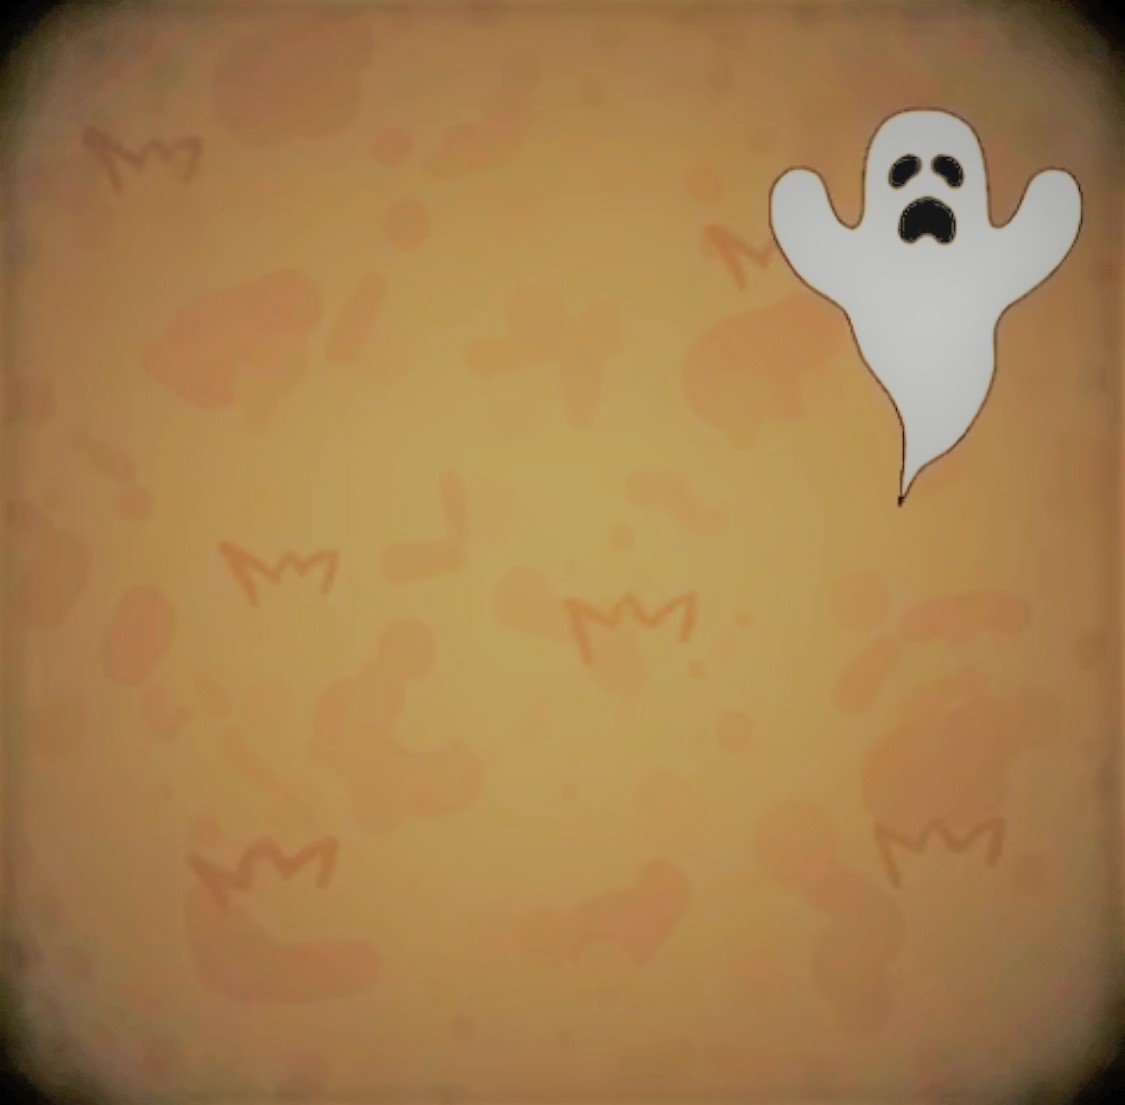
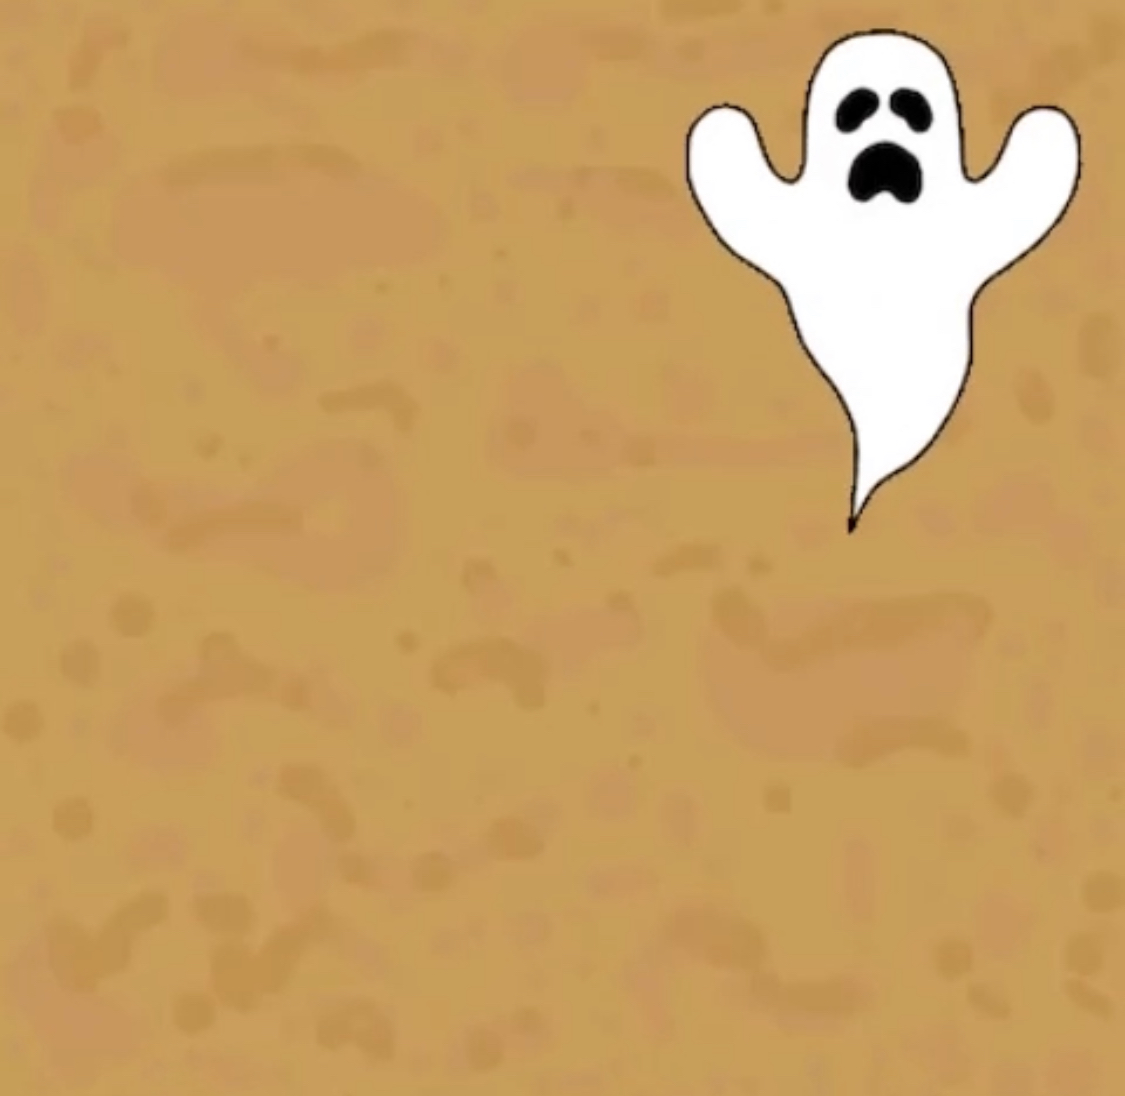
fix small bug and improve image design

diff --git a/public/script/hero.js b/public/script/hero.js
@@ -137,6 +137,24 @@ class hero{
             if(ghost_x === this.world.ghost.pos[0] && ghost_y === this.world.ghost.pos[1]){
                 this.world.ghost.killed = true; 
                 this.world.cells.cellsArray[ghost_x + ghost_y * this.world.side_number].displayed = true;
+                // update cell around ghost
+                let xpos = [-1,1,0,0];
+                let ypos = [0,0,1,-1];
+                for (let i = 0; i < xpos.length; i++){
+                    let cell_xpos = this.world.ghost.pos[0] + xpos[i];
+                    let cell_ypos = this.world.ghost.pos[1] + ypos[i];
+                    
+                    if(cell_xpos >=0 && cell_xpos < this.world.side_number && 
+                        cell_ypos >=0 && cell_ypos < this.world.side_number){
+                            
+                            if(this.world.cells.cellsArray[cell_ypos * this.world.side_number + cell_xpos].status === CELLSTATUS.GHOST){
+                                this.world.cells.cellsArray[cell_ypos * this.world.side_number + cell_xpos].status = CELLSTATUS.CLEAR;
+                            }
+                            else if(this.world.cells.cellsArray[cell_ypos * this.world.side_number + cell_xpos].status === CELLSTATUS.BOTH){
+                                this.world.cells.cellsArray[cell_ypos * this.world.side_number + cell_xpos].status = CELLSTATUS.GROUND_PIT;
+                            }
+                    }
+                }
             }
         }
     }

diff --git a/public/script/world.js b/public/script/world.js
@@ -65,10 +65,10 @@ class Wumpus_world {
 
 
     initialize_cell_status(){
-        // update cell around ghost
         let xpos = [-1,1,0,0];
         let ypos = [0,0,1,-1];
 
+        // update cell around ghost
         for (let i = 0; i < xpos.length; i++){
             let cell_xpos = this.ghost.pos[0] + xpos[i];
             let cell_ypos = this.ghost.pos[1] + ypos[i];
@@ -87,8 +87,7 @@ class Wumpus_world {
                 let cell_ypos = pit.pos[1] + ypos[i];
 
                 if(cell_xpos >=0 && cell_xpos < this.side_number && 
-                    cell_ypos >=0 && cell_ypos < this.side_number &&
-                    this.cells.cellsArray[cell_ypos * this.side_number + cell_xpos].status === CELLSTATUS.CLEAR){
+                    cell_ypos >=0 && cell_ypos < this.side_number){
                         if(this.cells.cellsArray[cell_ypos * this.side_number + cell_xpos].status === CELLSTATUS.GHOST){
                             this.cells.cellsArray[cell_ypos * this.side_number + cell_xpos].status = CELLSTATUS.BOTH;
                         }
@@ -103,12 +102,9 @@ class Wumpus_world {
 
     display(){
         this.cells.display();
-        // this.pits.display();
         this.hero.display();
         this.ghost.display();
         this.key.display();
-
-
     }
 }
 

diff --git a/public/script/ghost.js b/public/script/ghost.js
@@ -7,15 +7,15 @@ class ghost{
     }
     display(){
         if (this.displayed && !this.killed) {
-            image(ghostImg, this.pos[0] * this.world.cell_canvas_size + this.world.cell_canvas_size/4, 
-                this.pos[1] * this.world.cell_canvas_size + this.world.cell_canvas_size/4, 
-                this.world.cell_canvas_size/2, this.world.cell_canvas_size/2);
+            image(ghostImg, this.pos[0] * this.world.cell_canvas_size, 
+                this.pos[1] * this.world.cell_canvas_size, 
+                this.world.cell_canvas_size, this.world.cell_canvas_size);
         }
         // killed better to added pickture when the ghost being killed
         if(this.killed){
-            image(ghostDeadImg, this.pos[0] * this.world.cell_canvas_size + this.world.cell_canvas_size/4, 
-                this.pos[1] * this.world.cell_canvas_size + this.world.cell_canvas_size/4, 
-                this.world.cell_canvas_size/2, this.world.cell_canvas_size/2);
+            image(ghostDeadImg, this.pos[0] * this.world.cell_canvas_size, 
+                this.pos[1] * this.world.cell_canvas_size, 
+                this.world.cell_canvas_size, this.world.cell_canvas_size);
         }
     }
 }

diff --git a/public/script/key.js b/public/script/key.js
@@ -8,9 +8,9 @@ class gold_key{
     display(){
 
         if (this.displayed && !this.picked) {
-            image(keyImg, this.pos[0] * this.world.cell_canvas_size + this.world.cell_canvas_size/4, 
-                this.pos[1] * this.world.cell_canvas_size + this.world.cell_canvas_size/4, 
-                this.world.cell_canvas_size/2, this.world.cell_canvas_size/2);
+            image(keyImg, this.pos[0] * this.world.cell_canvas_size, 
+                this.pos[1] * this.world.cell_canvas_size, 
+                this.world.cell_canvas_size, this.world.cell_canvas_size);
         }
     }
 }

diff --git a/public/script/consts.js b/public/script/consts.js
@@ -14,10 +14,10 @@ const CELL_SIZE = {
 //cell status for img and hero use
 const CELLSTATUS = {
     CLEAR: 0,
-    PIT: 1,
-    GHOST: 2,
-    BOTH: 3, 
-    GROUND_PIT: 4 //both pit and ghost
+    PIT: 1,   // real pit display
+    GHOST: 2, //hint usage
+    BOTH: 3, //both pit and ghost ---> hint usage
+    GROUND_PIT: 4 //--->hint usage
 }
 
 const SCORE = {
